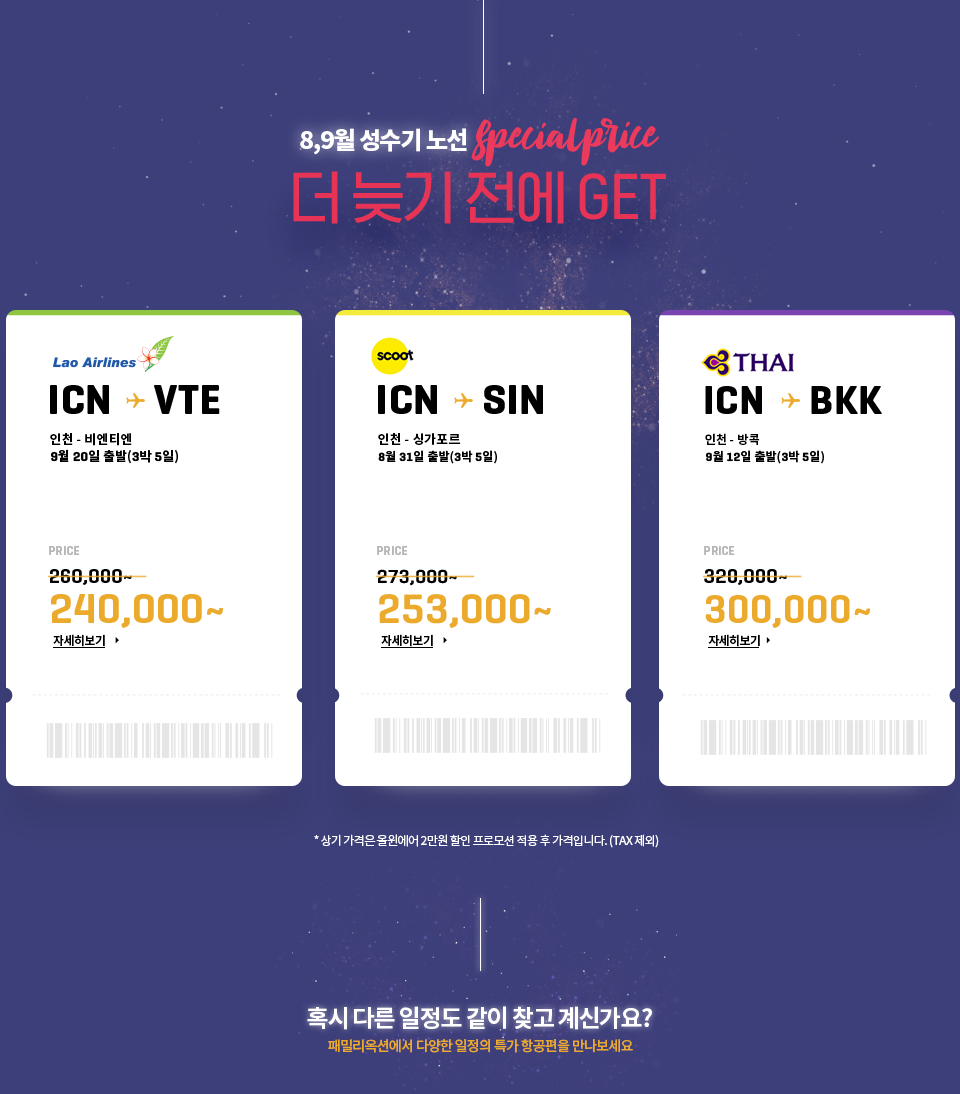
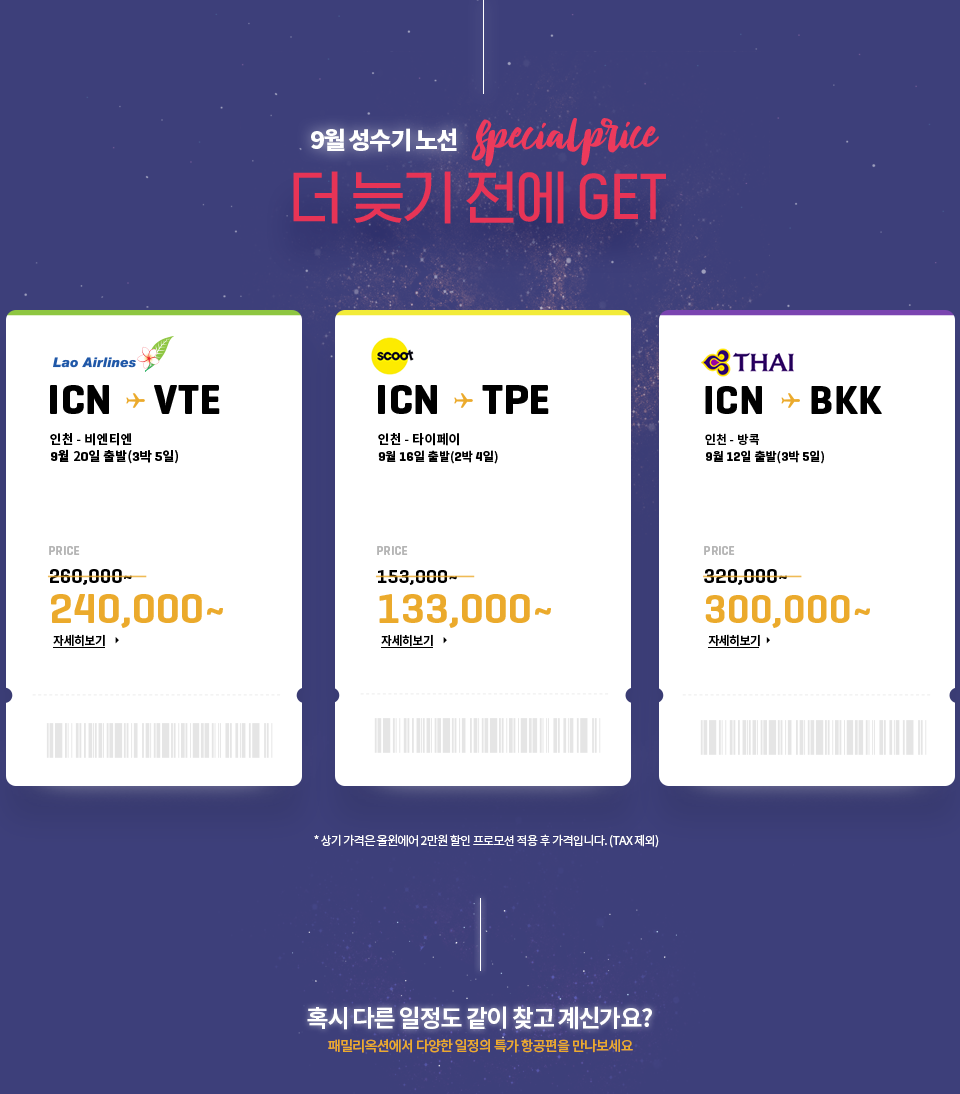
이벤트 수정

diff --git a/allwinair/html/event/event16-1/html/event.html b/allwinair/html/event/event16-1/html/event.html
@@ -227,7 +227,7 @@
                             <area shape="rect" coords="6,309,303,787" href="https://allwinair.com?d_id=1564&d_type=0"
                                   data-button-idx="1">
                             <area shape="rect" coords="332,309,630,787"
-                                  href="https://allwinair.com?d_id=1567&d_type=0" data-button-idx="2">
+                                  href="https://allwinair.com?d_id=1590&d_type=0" data-button-idx="2">
                             <area shape="rect" coords="657,311,954,788"
                                   href="https://allwinair.com?d_id=1566&d_type=0" data-button-idx="3">
                         </map>
